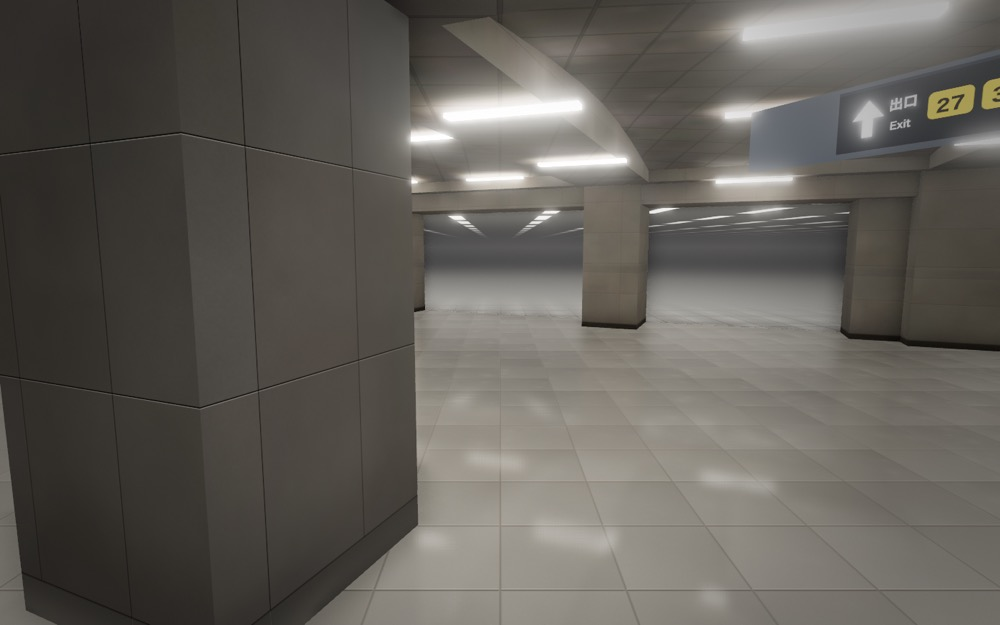
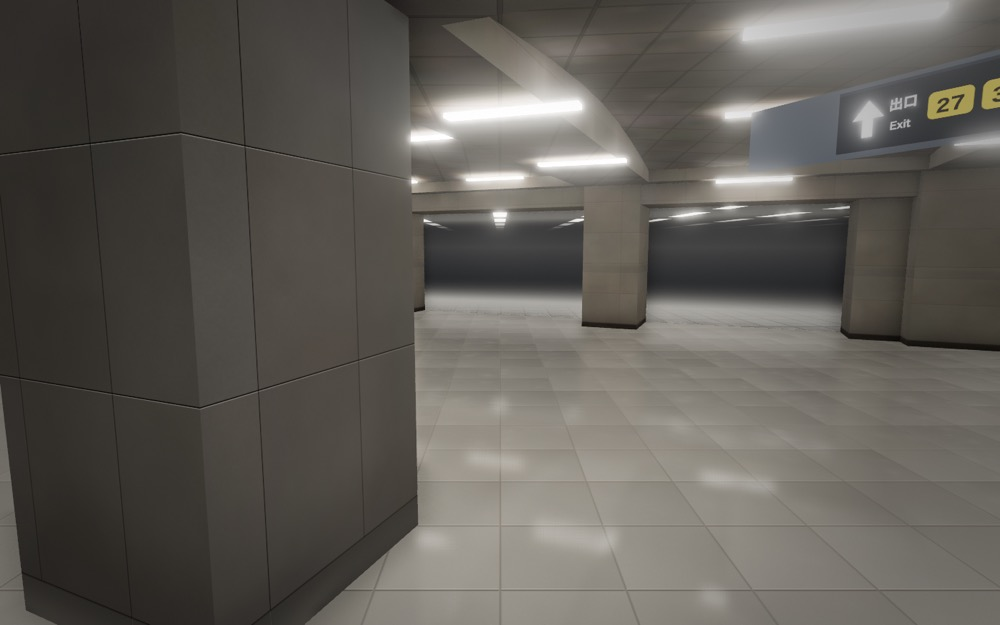
fix(ikebukuro): address independent review of the opening depth pass
- No derivatives in non-uniform control flow: floor, ceiling and mirrored
  hits and their fwidth are computed unconditionally (denominator-guarded,
  widths clamped), then the shading is selected.
- Lamps use an exact box-filtered periodic pulse train, so mean coverage
  converges to the duty cycle (no brightness breathing); averaged emission
  stays below the bloom threshold, only resolved cores exceed it.
- The continuation is legible for the first few metres and falls to
  featureless dark by ~18 m: "the station continues, unknown", not a hall.

Changed region(s): [[0.403, 0.3344, 0.589, 0.4864], [0.62, 0.4256, 0.868, 0.5168], [0.651, 0.304, 0.837, 0.3952]]

diff --git a/stations/ikebukuro/scene/materials.ts b/stations/ikebukuro/scene/materials.ts
@@ -500,6 +500,19 @@ function skyMaterial(THREE: ThreeNS) {
   return m;
 }
 
+/**
+ * Box-filtered periodic bar (period 1, half-width hw, centred on integers) averaged over a footprint of
+ * width w. Exact integral of the pulse train, so it converges to the duty cycle 2 * hw as w grows.
+ */
+const GLSL_PULSE = `
+float gtPulse(float x, float hw, float w) {
+  w = max(w, 1e-3);
+  float a = x - 0.5 * w, b = x + 0.5 * w;
+  float na = floor(a + 0.5), nb = floor(b + 0.5);
+  float ca = clamp(fract(a + 0.5) - 0.5, -hw, hw), cb = clamp(fract(b + 0.5) - 0.5, -hw, hw);
+  return ((nb - na) * 2.0 * hw + cb - ca) / w;
+}`;
+
 function beyondMaterial(THREE: ThreeNS) {
   const m = new THREE.MeshBasicMaterial({ color: 0xffffff, side: THREE.DoubleSide });
   m.onBeforeCompile = (sh) => {
@@ -507,74 +520,64 @@ function beyondMaterial(THREE: ThreeNS) {
       .replace("#include <common>", "#include <common>\nattribute vec2 band;\nvarying vec2 vBand;\nvarying vec3 vWorldP;")
       .replace("#include <project_vertex>", "#include <project_vertex>\nvBand = band;\nvWorldP = (modelMatrix * vec4(transformed, 1.0)).xyz;");
     sh.fragmentShader = sh.fragmentShader
-      .replace("#include <common>", "#include <common>\nvarying vec2 vBand;\nvarying vec3 vWorldP;")
+      .replace("#include <common>", `#include <common>\nvarying vec2 vBand;\nvarying vec3 vWorldP;\n${GLSL_PULSE}`)
       .replace(
         "vec4 diffuseColor = vec4( diffuse, opacity );",
         // cameraPosition is not uploaded for basic materials; recover the eye from the view matrix.
+        // All plane intersections and derivatives are computed unconditionally (uniform control flow);
+        // only the shaded results are selected.
         `vec3 eye = -transpose(mat3(viewMatrix)) * viewMatrix[3].xyz;
         vec3 rd = normalize(vWorldP - eye);
         float H = max(vBand.y - vBand.x, 0.5);
-        // Soft-edged bar coverage that tends to its mean (2 * hw) once the filter outgrows the feature,
-        // so distant fixtures dissolve into an even glow instead of shimmering or vanishing.
-        #define GT_BAR(f, hw, w) mix(1.0 - smoothstep((hw) - (w), (hw) + (w), (f)), 2.0 * (hw), smoothstep(0.3, 0.8, (w)))
-        float lampX = 0.07, lampY = 0.32;
-        // Distance haze: the continuation darkens and desaturates into a dim cool distance, with a faint
-        // brighter band at the horizon line so the eye reads a receding space rather than a flat wall.
-        vec3 farc = vec3(0.028, 0.030, 0.034);
-        vec3 glow = vec3(0.060, 0.058, 0.054) * exp(-abs(rd.y) * 14.0);
-        // Vertical vignette across the opening: the top and bottom edges sink slightly toward the dark.
-        float vh = clamp((vWorldP.y - vBand.x) / H, 0.0, 1.0);
-        float vig = 1.0 - 0.3 * pow(abs(vh - 0.45) * 2.0, 2.0);
-        vec3 col = farc + glow;
-        float t = 1e3;
-        float far = 1.0;
         float ady = abs(rd.y);
-        if (ady > 0.004) {
-          bool down = rd.y < 0.0;
-          t = max(((down ? vBand.x : vBand.y) - vWorldP.y) / rd.y, 0.0);
-          vec3 h = vWorldP + rd * t;
-          float att = exp(-t / 16.0);
-          vec3 near;
-          if (down) {
-            // Floor: the station's own tile scale and brightness at the opening plane, then falloff.
-            vec2 q = h.xz / 0.6, w = fwidth(q);
-            vec2 f = fract(q);
-            float grout = 1.0 - smoothstep(0.035, 0.035 + w.x, f.x) * smoothstep(0.035, 0.035 + w.y, f.y);
-            grout *= 1.0 - smoothstep(0.1, 0.4, max(w.x, w.y));
-            near = mix(vec3(0.31, 0.30, 0.28), vec3(0.23, 0.222, 0.208), grout * exp(-t / 5.0));
-            // Glossy reflection of the ceiling fixtures: mirror the ray at the floor, trace to the ceiling.
-            vec3 rr = vec3(rd.x, -rd.y, rd.z);
-            float tc = H / max(rr.y, 0.004);
-            vec2 hc = h.xz + rr.xz * tc;
-            float blur = 0.05 * (t + tc) + 0.03;
-            vec2 qc = hc / vec2(2.4, 3.0);
-            vec2 wc = fwidth(qc) * 0.75 + vec2(blur / 2.4, blur / 3.0);
-            vec2 fc = abs(fract(qc) - 0.5);
-            float refl = GT_BAR(fc.x, lampX, wc.x) * GT_BAR(fc.y, lampY, wc.y);
-            float fres = 0.04 + 0.96 * pow(1.0 - ady, 5.0);
-            near += vec3(1.0, 0.97, 0.9) * refl * fres * 0.9 * exp(-tc / 30.0);
-          } else {
-            // Ceiling: tile seams at the station's panel scale plus linear fixtures receding in rows.
-            vec2 q = h.xz / 0.6, w = fwidth(q);
-            vec2 f = fract(q);
-            float seam = 1.0 - smoothstep(0.02, 0.02 + w.x, f.x) * smoothstep(0.02, 0.02 + w.y, f.y);
-            seam *= 1.0 - smoothstep(0.1, 0.4, max(w.x, w.y));
-            near = mix(vec3(0.13, 0.126, 0.118), vec3(0.07, 0.068, 0.064), seam * exp(-t / 5.0));
-            vec2 ql = h.xz / vec2(2.4, 3.0);
-            vec2 wl = fwidth(ql) * 0.75 + 1e-4;
-            vec2 fl = abs(fract(ql) - 0.5);
-            float lamp = GT_BAR(fl.x, lampX, wl.x) * GT_BAR(fl.y, lampY, wl.y);
-            near = mix(near, vec3(1.7, 1.65, 1.55), lamp * exp(-t / 40.0));
-          }
-          // Falls off toward the haze; fully hazed by the time rays are near-horizontal.
-          far = 1.0 - att * smoothstep(0.004, 0.06, ady);
-          col = mix(near, col, far);
-        }
-        col *= mix(1.0, vig, far);
+        bool down = rd.y < 0.0;
+        // Floor and ceiling hits (denominator-guarded) and the mirrored floor ray up to the ceiling.
+        float tF = max((vBand.x - vWorldP.y) / min(rd.y, -0.004), 0.0);
+        float tC = max((vBand.y - vWorldP.y) / max(rd.y, 0.004), 0.0);
+        vec2 hF = vWorldP.xz + rd.xz * tF;
+        vec2 hC = vWorldP.xz + rd.xz * tC;
+        float tc = H / max(ady, 0.004);
+        vec2 hR = hF + rd.xz * tc;
+        vec2 qF = hF / 0.6, qC = hC / 0.6;
+        vec2 qL = hC / vec2(2.4, 3.0), qR = hR / vec2(2.4, 3.0);
+        vec2 wF = max(fwidth(qF), 1e-3), wC = max(fwidth(qC), 1e-3);
+        vec2 wL = max(fwidth(qL), 1e-3), wRd = fwidth(qR);
+        float t = down ? tF : tC;
+        // Readable depth is short: legible for the first few metres, then it sinks into dim, featureless
+        // dark by about 18 m, so it reads as "the station continues" and not as a hall of any size.
+        float vis = smoothstep(1.0 / 18.0, 1.0 / 3.0, 1.0 / max(t, 0.01)); // even in screen space (~1/t)
+        vis *= smoothstep(0.004, 0.06, ady);
+        // Distant dark with a faint gradient (brighter toward the horizon line, darker at the extremes).
+        vec3 farc = vec3(0.026, 0.028, 0.031) + vec3(0.03, 0.029, 0.027) * exp(-ady * 22.0);
+        float hh = clamp((vWorldP.y - vBand.x) / H, 0.0, 1.0);
+        float vig = 1.0 - 0.3 * pow(abs(hh - 0.45) * 2.0, 2.0);
+        // Lamp dimensions in cell units (cells 2.4 m by 3.0 m): 0.34 m wide, 1.9 m long.
+        const float lampX = 0.07, lampY = 0.32;
+        // Floor: the station's own tile scale and brightness at the opening plane, then falloff.
+        vec2 fF = fract(qF);
+        float grout = 1.0 - smoothstep(0.035, 0.035 + wF.x, fF.x) * smoothstep(0.035, 0.035 + wF.y, fF.y);
+        grout *= 1.0 - smoothstep(0.1, 0.4, max(wF.x, wF.y));
+        vec3 floorC = mix(vec3(0.31, 0.30, 0.28), vec3(0.23, 0.222, 0.208), grout * exp(-tF / 5.0));
+        // Glossy reflection of the ceiling fixtures, blurred with path length, strongest at grazing.
+        vec2 wR = wRd * 0.75 + vec2(0.05 * (tF + tc) + 0.03) / vec2(2.4, 3.0);
+        float refl = gtPulse(qR.x, lampX, wR.x) * gtPulse(qR.y, lampY, wR.y);
+        float fres = 0.04 + 0.96 * pow(1.0 - ady, 5.0);
+        floorC += vec3(1.0, 0.97, 0.9) * refl * fres * 0.8 * (1.0 - smoothstep(2.0, 14.0, tF + 0.5 * tc));
+        // Ceiling: tile seams at the station's panel scale plus linear fixtures receding in rows.
+        vec2 fC = fract(qC);
+        float seam = 1.0 - smoothstep(0.02, 0.02 + wC.x, fC.x) * smoothstep(0.02, 0.02 + wC.y, fC.y);
+        seam *= 1.0 - smoothstep(0.1, 0.4, max(wC.x, wC.y));
+        vec3 ceilC = mix(vec3(0.13, 0.126, 0.118), vec3(0.07, 0.068, 0.064), seam * exp(-tC / 5.0));
+        float lamp = gtPulse(qL.x, lampX, wL.x) * gtPulse(qL.y, lampY, wL.y);
+        // Averaged (unresolved) fixtures stay under the bloom threshold; only resolved cores exceed it.
+        float res = 1.0 - smoothstep(0.5, 1.0, max(wL.x / (2.0 * lampX), wL.y / (2.0 * lampY)));
+        ceilC = mix(ceilC, vec3(1.0, 0.97, 0.91) * mix(1.4, 1.7, res), lamp);
+        vec3 near = down ? floorC : ceilC;
+        vec3 col = mix(farc * vig, near, vis);
         vec4 diffuseColor = vec4(col * diffuse, opacity);`,
       );
   };
-  m.customProgramCacheKey = () => "gteki-ikebukuro-beyond-5";
+  m.customProgramCacheKey = () => "gteki-ikebukuro-beyond-6";
   return m;
 }
 
